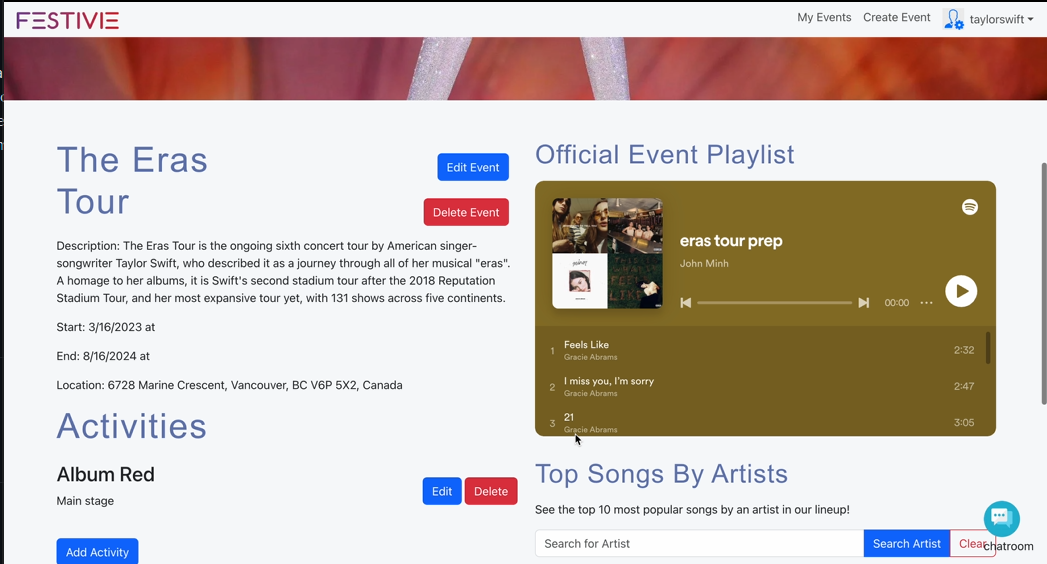
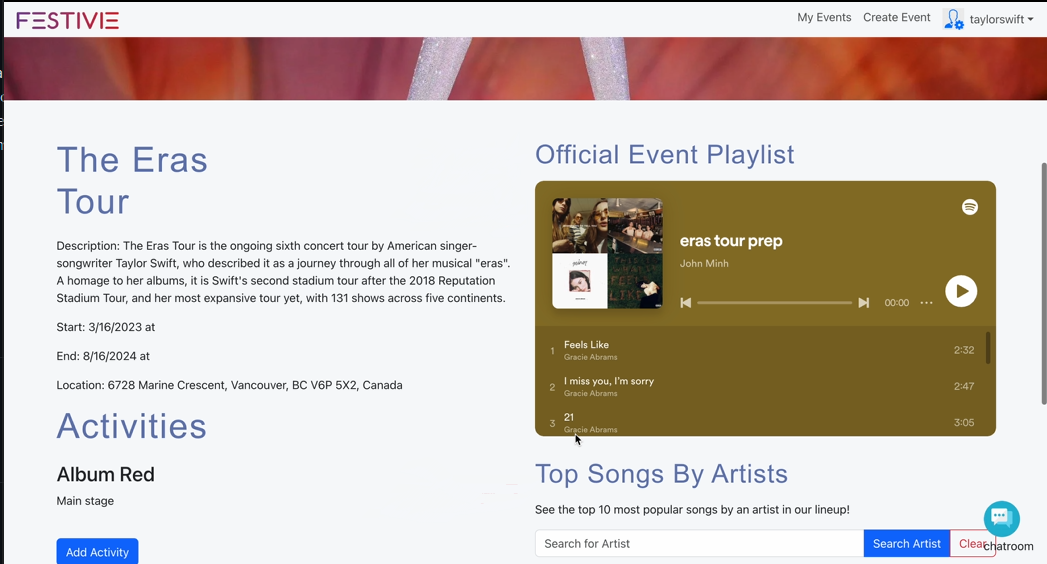
Quartz sync: Apr 17, 2024, 4:04 PM

Changed region(s): [[0.3973, 0.2713, 0.489, 0.422], [0.3973, 0.844, 0.5196, 0.9043]]

diff --git a/content/about/projects.md b/content/about/projects.md
@@ -3,14 +3,25 @@ title: "Projects"
 date: 2023-02-18T11:08:02-12:00
 draft: false
 ---
-Here are the technical projects that I build from school and personal.
+Here are the technical projects that I build.
 
 The basic intro and technical stack are provided.
 
 For detailed information you can check the Github link below each project.
 
+
+
 ---
 
+## Civil Explosive Product Monitoring System
+
+<div style="position: relative; width: 100%; padding-bottom: 56.25%;">
+  <iframe src="cems.html" style="position: absolute; top: 0; left: 0; width: 100%; height: 100%;" frameborder="0"></iframe>
+</div>
+
+A Domain-Driven Design (DDD) based system engineered to streamline the monitoring and management of civil explosive products for Sinopec (China Petrochemical Corp). The platform integrates comprehensive functionalities including product registration, tracking, security management, license approval, and inventory control. It serves as a robust digital platform designed to enhance operational efficiencies and compliance oversight.
+
+Stack: React, ASP.NET (C#), ABP Framework, MS SQL Server, RESTful APIs, GitLab Actions.
 ## Festival Planner
 
 <div style="position: relative; width: 100%; padding-bottom: 56.25%;">
@@ -113,7 +124,10 @@ Stack: C, Linux/Unix
 <a target="_blank" href="https://github.com/wha61/CShell">GitHub</a>
 
 ## Lets-Talk
+
+From port 3000 to port 3001:
 ![DEMO](letstalk1.png)
+From port 3001 to port 3000:
 ![DEMO](letstalk2.png)
 
 A chatroom with many features built in C implemented with multithreading concepts and UDP. This chatroom enables a user at one terminal to communicate with a user at another terminal.

diff --git a/content/index.md b/content/index.md
@@ -1,10 +1,13 @@
 ---
 title: Home 🏬
 ---
+[Email](mailto:wha61@sfu.ca)  |  [Github](https://github.com/wha61) | [Linkedin](https://www.linkedin.com/in/wenxiang-he/)
 
 <img src="me.png" alt="Bruce's Photo" width="100%" height="auto">
 
-Hello! I’m Bruce. 4th year [Computing Science](https://www.sfu.ca/computing/current-students/undergraduate-students/programs/computing-science-major.html) student @ Simon Fraser University. I’m interested in Full Stack Software Development, Mobile App Development, Machine Mearning, and Computer Vision.
+Hello! I’m Bruce. 4th year [Computing Science](https://www.sfu.ca/computing/current-students/undergraduate-students/programs/computing-science-major.html) student @ Simon Fraser University. 
+
+My field of interest and specialization is Full Stack Software Development, Mobile App Development, Machine Mearning, and Computer Vision.
 
 I'm currently working as a Full Stack Software Developer at Shandong Leading Petro-Tech, Sinopec, and I am also learning and trying to get the [AWS Certified Cloud Practitioner Certification](https://aws.amazon.com/certification/certified-cloud-practitioner/).
 
@@ -18,6 +21,7 @@ Stay tuned for updates and thanks for stopping by!
 
 - [Experience](about/experience.md) : My educational background, co-op, and volunteering experiences;
 - [Projects](about/projects.md) : Showcases of personal and team projects I've developed;
+- [Courses](about/) : Taken related to Computing Science;
 - [Blogs](blogs/) : Thoughts and reflections from my learning journey.
 
 

diff --git a/content/about/experience.md b/content/about/experience.md
@@ -26,7 +26,7 @@ Experience consists of my recent education, work experience, volunteer experienc
 > •  Engaged in meticulous analysis and customization of client requirements based on Agile Methodologies, leading to the successful initiation and trail operation of the system. <br>
 
 ## Volunteer Experience
-> **IT Squad member** (Jan 2023 - Aug 2023) <br>
+>  [**IT Squad member**](https://www.fraseric.ca/campus-life/volunteer-opportunities/it-squad/) (Jan 2023 - Aug 2023) <br>
 > • Assisting students and educators in resolving technical issues.<br>
 > • Documenting encountered technical issues and reporting them to the supervisor.<br>
 > • Providing guidance to new FIC students on activating personal accounts and computing IDs. <br>
